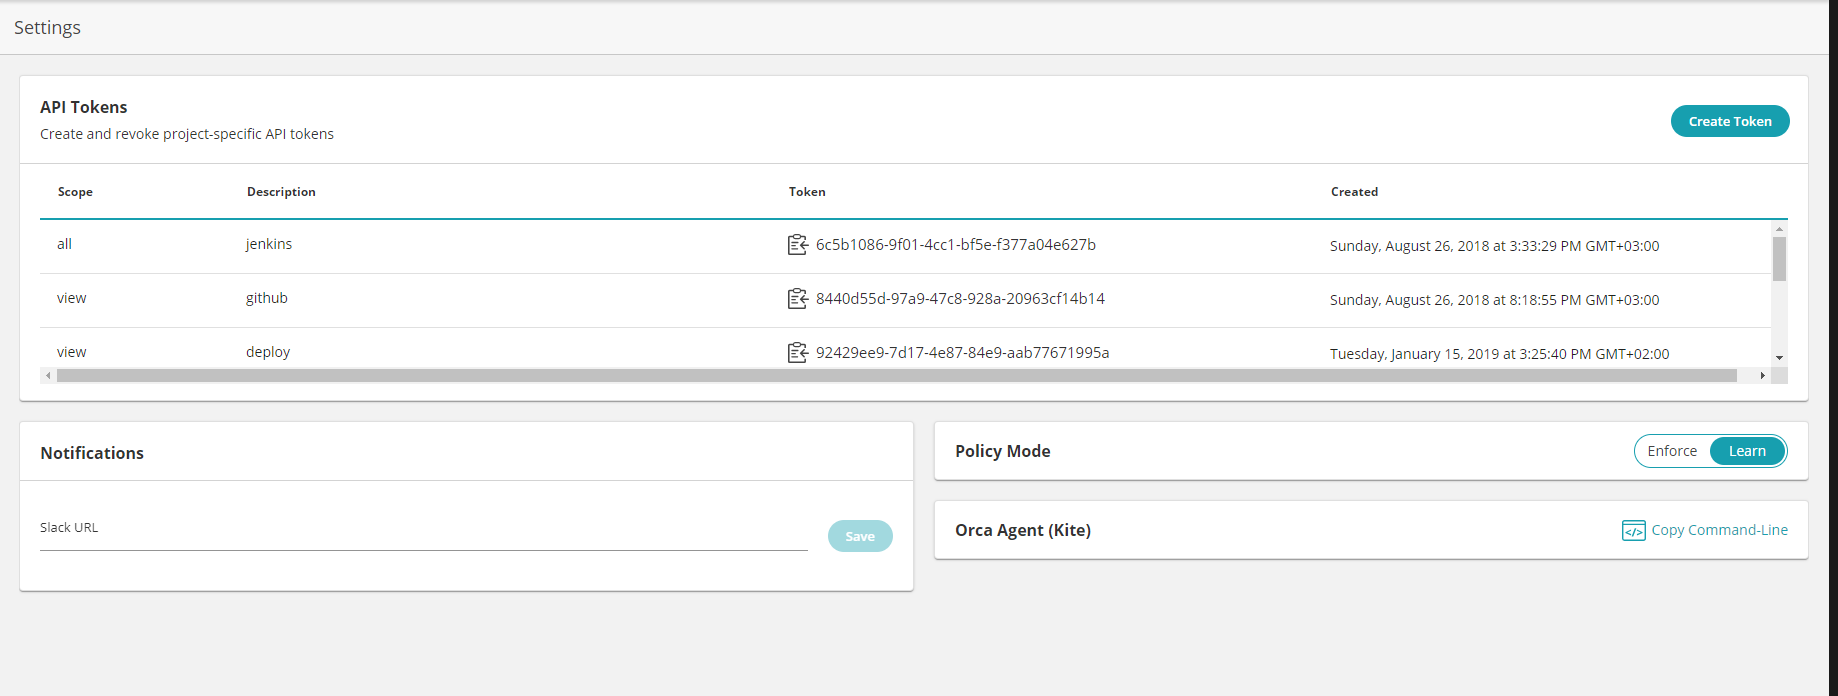
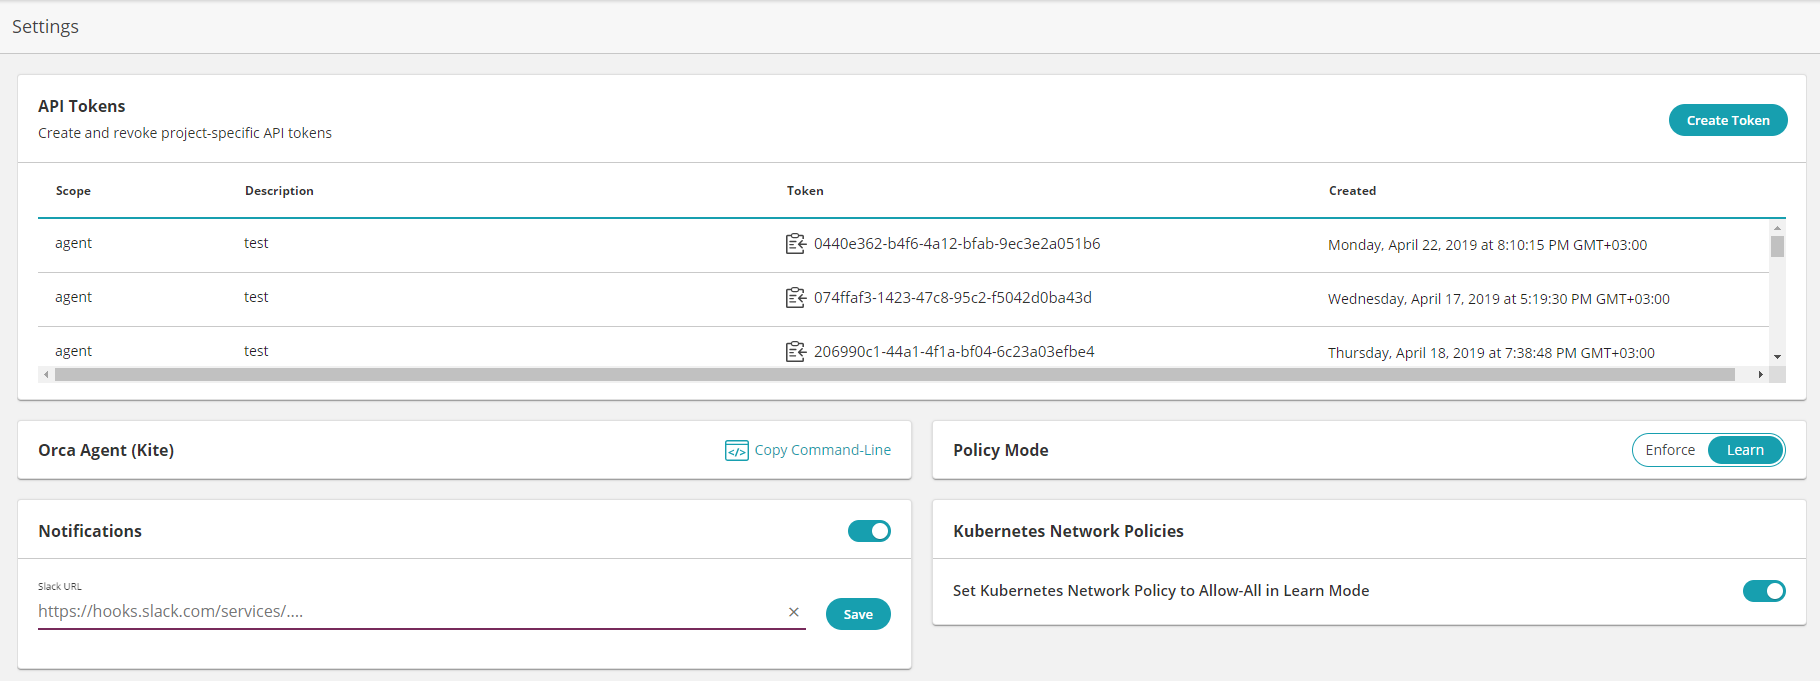
new connection notification
+ a v. minor fix in policy.htm

diff --git a/Content/Topics/20-Concepts/DiscoveryEngine.htm b/Content/Topics/20-Concepts/DiscoveryEngine.htm
@@ -4,12 +4,14 @@
     </head>
     <body>
         <h1>Discovery Engine</h1>
-        <p>The <MadCap:variable name="Local.Product_L" /> discovery engine is a continually running process that constantly monitors traffic to and from  the services used by your application. Any traffic found that is not already listed as an allowed connection in your policy is added to the <span class="ScreenObject">New Connections Window</span> and the number of new connections is displayed at the top of the screen. Any connections discovered which are not listed as an allowed connection in your <MadCap:variable name="local.Product_S" /> policy will be considered new connections. </p>
+        <p>The <MadCap:variable name="Local.Product_L" /> discovery engine is a continually running process that constantly monitors traffic to and from  the services used by your application. Any traffic found that is not already listed as an allowed connection in your policy is added to the New Connections Window and the number of new connections displayed on the screen is updated. Any connections discovered which are not listed as allowed connections in your <MadCap:variable name="local.Product_S" /> policy will be considered new connections. </p>
         <p>You can view the <span class="ScreenObject">New Connections Window</span> by clicking <span class="ScreenObject">New Connections</span> at the top of the screen. See also <a href="../40-Working_With/AllowedConnections.htm">Security Policy</a>.</p>
         <p>
             <img src="../../Resources/Images/Discovery_NewConnections.png" class="ThumbnailPopup" />
         </p>
-        <p>The discovery engine is always active, and runs independently of the Policy Mode. New connections can be converted to Allowed connections.</p>
+        <p>The Discovery Engine is always active, and runs independently of the Policy Mode. New connections can be converted to allowed connections.</p>
+        <h2>Notifications</h2>
+        <p>A notification can be sent whenever a new connection is discovered. See <a href="../40-Working_With/Settings.htm">Settings</a>.</p>
         <p>See <a href="../40-Working_With/WorkingWithDiscovery.htm">Working With Discovery</a></p>
     </body>
 </html>

diff --git a/Content/Topics/40-Working_With/Settings.htm b/Content/Topics/40-Working_With/Settings.htm
@@ -95,12 +95,11 @@
         <h4>Allowing Kubernetes Network Policies</h4>
         <p>When <span class="ScreenObject">Policy Mode</span> is set to <span class="StatusOrValue">Learn</span>, <MadCap:variable name="local.Product_S" /> automatically creates a Kubernetes network rule that allows all traffic, for each namespace. The purpose of this is to permit all traffic through the cluster and facilitate learning. An appropriate rule will be added for any new namespaces created while  set to <span class="StatusOrValue">Learn</span>. These <MadCap:variable name="local.Product_S" />-created rules will be removed if the appropriate namespace is removed or when <span class="ScreenObject">Policy Mode</span> is set to <span class="StatusOrValue">Enforce</span>. No other Kubernetes network rules will be touched.</p>
         <h3><a name="Slack"></a>Notifications</h3>
-        <p><MadCap:variable name="local.Product_L" /> lets you send notifications to an individual or group via Slack. To configure alerts, enter a Slack Incoming Webhook URL, and click Save.</p>
+        <p> You can send notifications via Slack whenever a new connection is <a href="../20-Concepts/DiscoveryEngine.htm">discovered</a>.  To configure alerts, enter a Slack Incoming Webhook URL and click Save. This can be to an individual or group. See <a href="https://api.slack.com/incoming-webhooks">Slack documentation for incoming webhooks</a> for more details. This option can be toggled on or off as needed.</p>
         <p>
             <p>
                 <img src="../../Resources/Images/Settings_Slack.png" />
             </p>
-            <p>See <a href="https://api.slack.com/incoming-webhooks">Slack documentation for incoming webhooks</a> for additional details.</p>
             <h2><a name="How"></a>How to Get Here</h2>
             <p><a href="../50-Help/Navigation.htm">Main Menu</a>  &gt; <span class="ScreenObject">Settings</span></p>
         </p>

diff --git a/Content/Topics/20-Concepts/Policy.htm b/Content/Topics/20-Concepts/Policy.htm
@@ -6,7 +6,7 @@
         <h1>Policy</h1>
         <h2>Types of Policy</h2>
         <p>There are two different kinds of policy in <MadCap:variable name="local.Product_S" /> - the <MadCap:variable name="local.Product_S" /> policy and the Kubernetes policy.</p>
-        <p>The <MadCap:variable name="Local.Product_S"></MadCap:variable> Policy option is split into three distinct functions:</p>
+        <p>The Main Menu Policy option is split into three distinct functions:</p>
         <ul>
             <li>
                 <p>Building and maintaining the policy - add or remove allowed connections</p>
